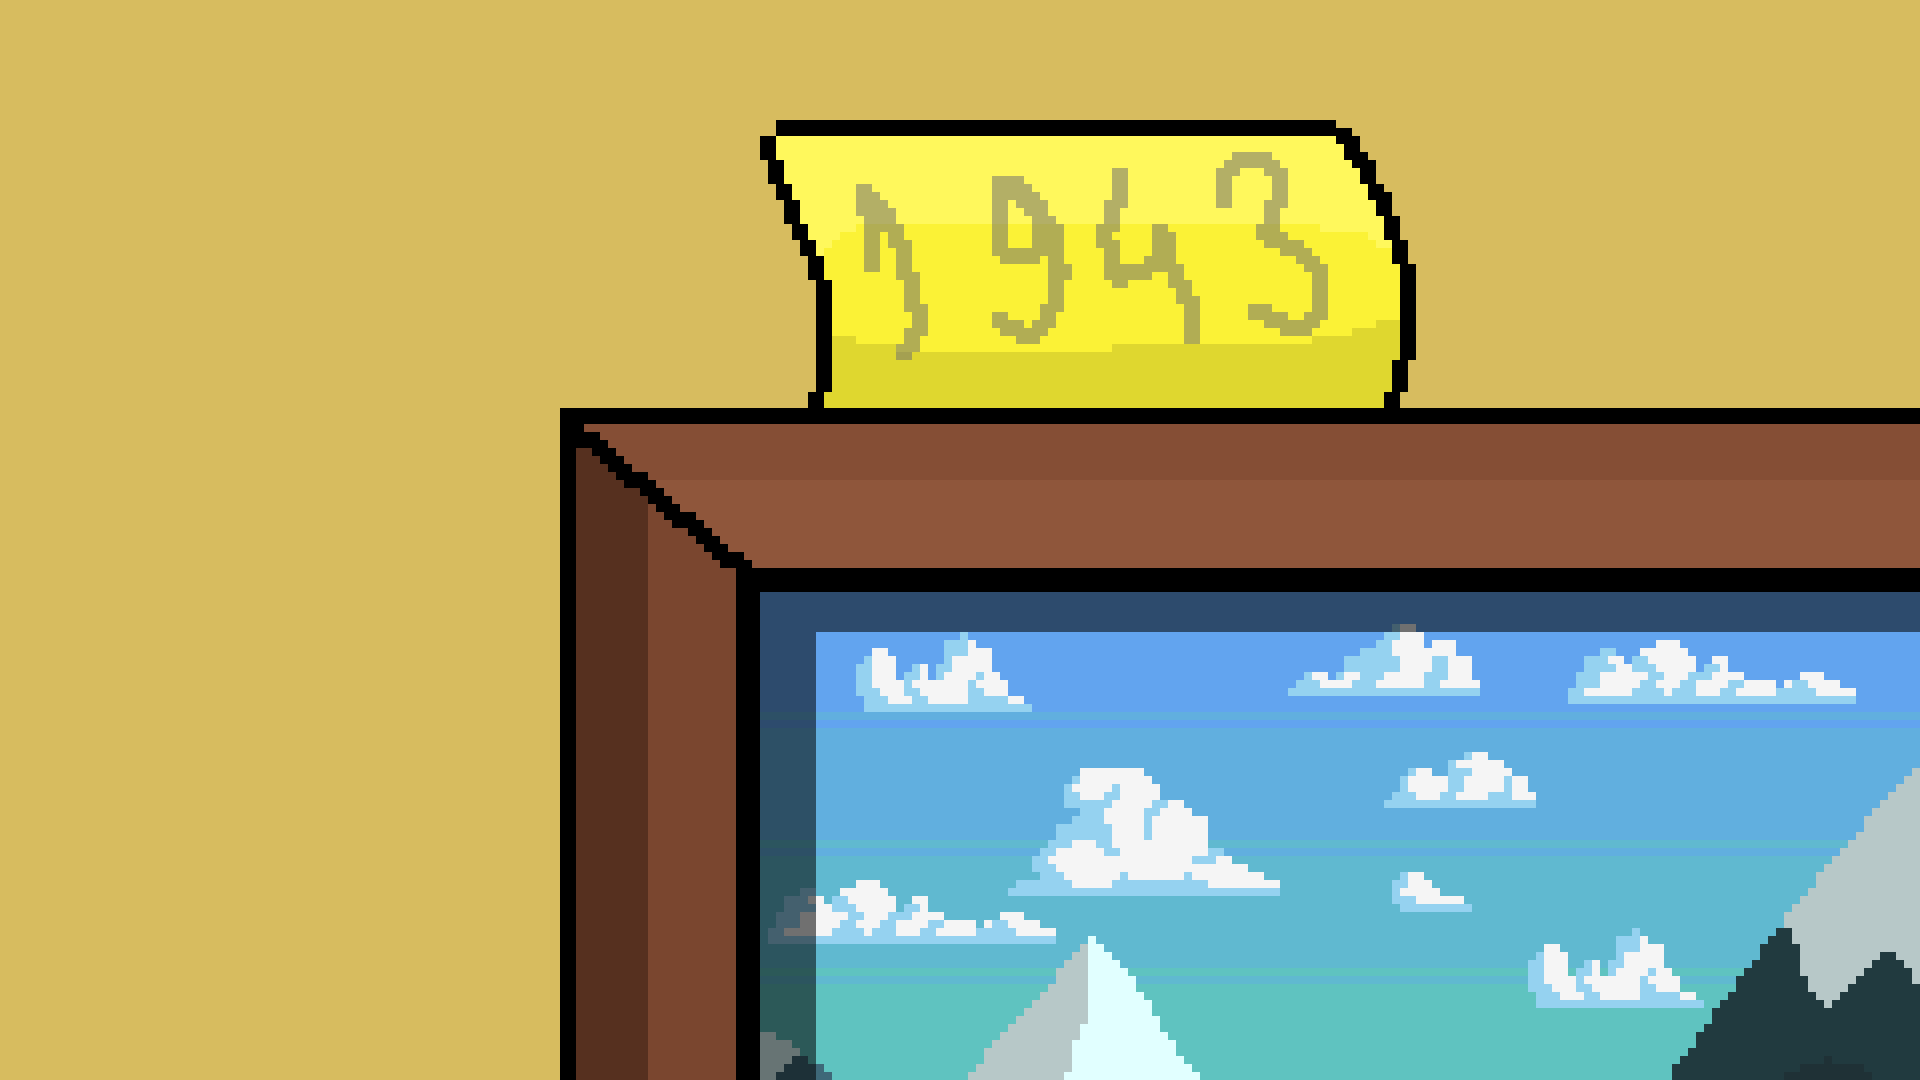
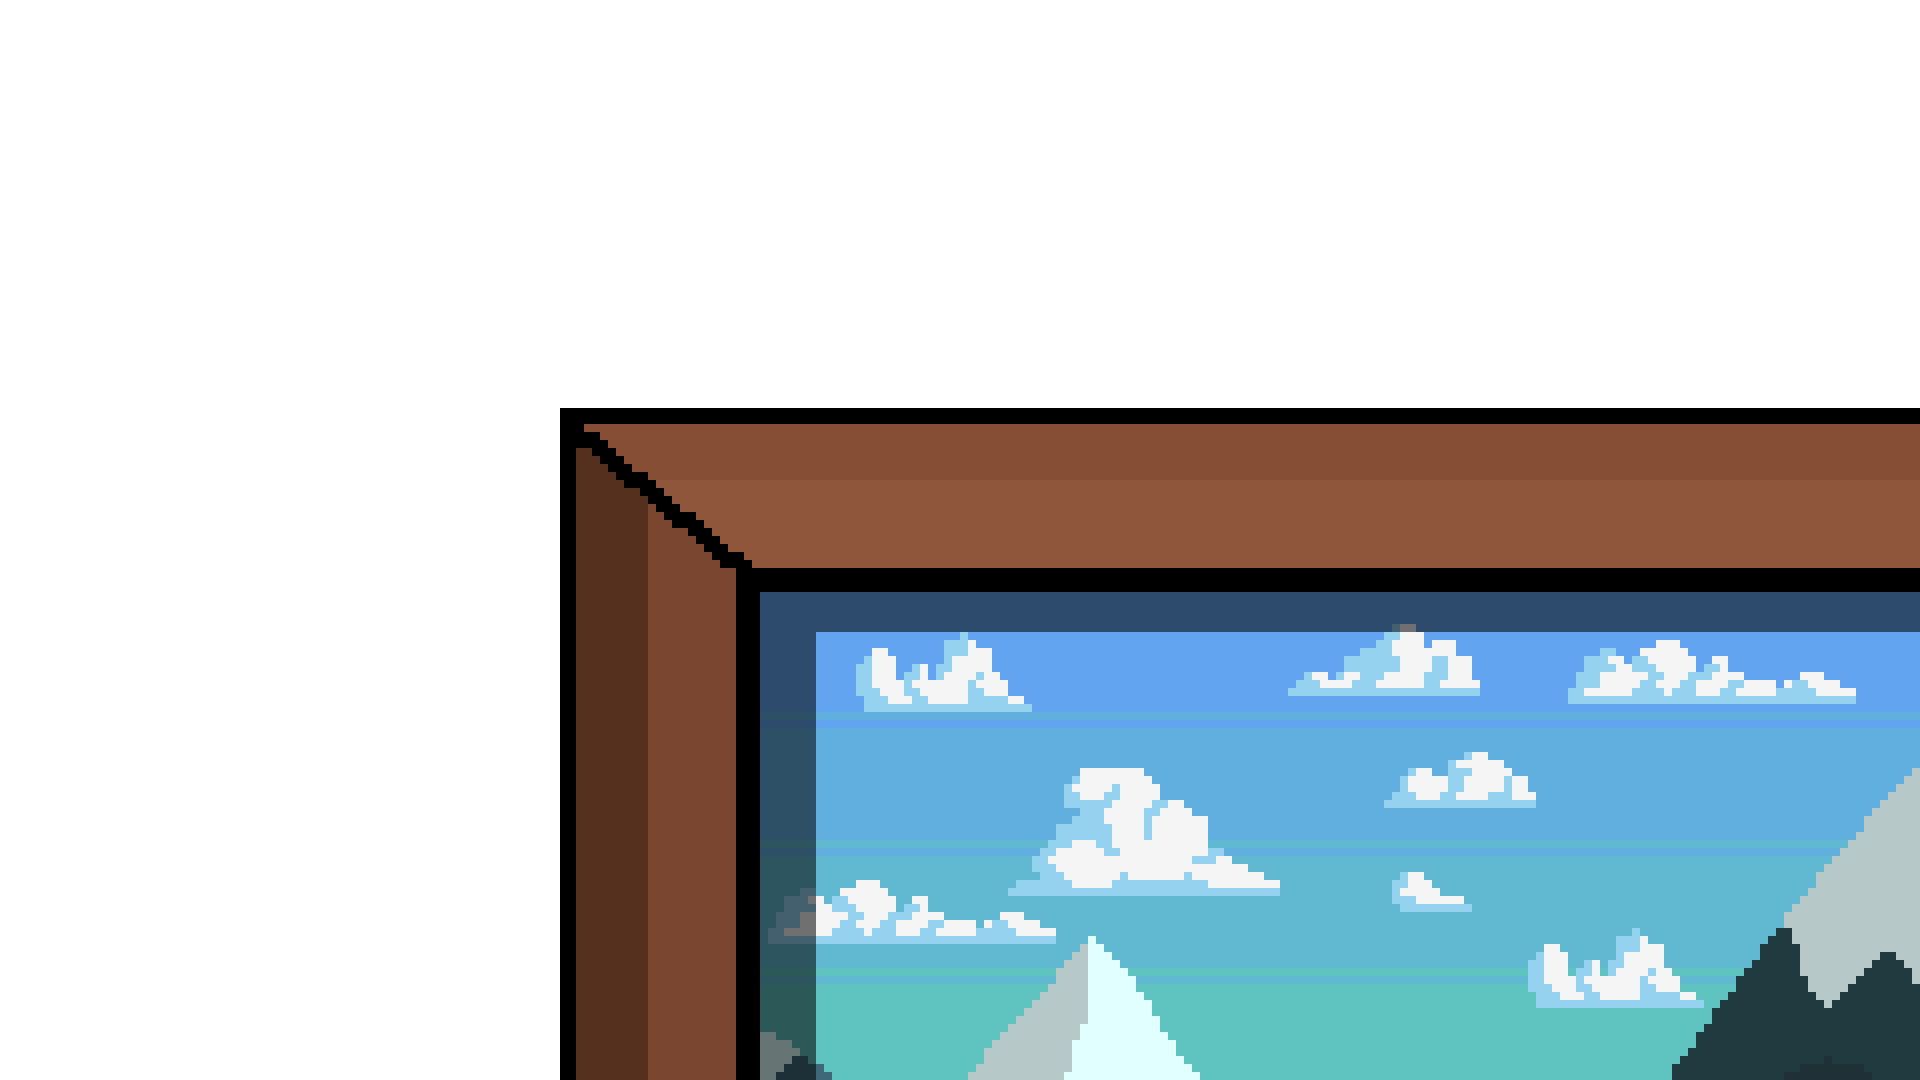
feat: added notes as two objects you can pick up and view from inventory

diff --git a/src/main/java/com/example/escapeyourbedroom/SpriteEvents.java b/src/main/java/com/example/escapeyourbedroom/SpriteEvents.java
@@ -14,6 +14,7 @@ import static com.example.escapeyourbedroom.EscapeRoomGame.*;
 public class SpriteEvents {
     // Background darken
     public static Rectangle darkenBackground = new Rectangle(WIDTH, HEIGHT, Color.rgb(0, 0, 0, 0.5));
+    public static Rectangle bg;
     // Safe things
     public static List<ClickableSprite> safeNumpadButtons = new ArrayList<>();
     public static ImageView keypad = new ImageView("file:assets/safe_numpad.png");
@@ -121,7 +122,22 @@ public class SpriteEvents {
         inventory.toFront();
         for (int i = 0; i < items.size(); i++) {
                 ClickableSprite item = items.get(i);
-                item.setOnlyLabelOnHoover();
+                if (item.name.startsWith("Key")) {
+                    item.setOnlyLabelOnHoover();
+                }
+                else {
+                    item.setHighlightOnHover();
+                    item.setOnMouseClicked(event -> {
+                        darkenBackground.toFront();
+                        exitButton.hide();
+                        String zoomized = item.getImage().getUrl().replace("_icon", "_zoom");
+                        ImageView zoomedNote = new ImageView(new Image(zoomized));
+                        root.getChildren().add(zoomedNote);
+                        zoomedNote.setVisible(true);
+                        zoomedNote.toFront();
+                        itemZoomExitButton();
+                    });
+                }
                 item.show();
         }
         exitButton();
@@ -191,6 +207,22 @@ public class SpriteEvents {
         });
     }
 
+    // Exit button with added inventory rendering
+    public static void itemZoomExitButton() {
+        exitButton = new ClickableSprite("file:assets/exit_button.png", "Go back", 796, -360);
+        exitButton.show();
+        exitButton.setHighlightOnHover();
+        exitButton.setOnMouseClicked(event -> {
+            // Hide keypad and render the background once again
+            nextBackground();
+            prevBackground();
+            updateSpritesVisibility(currentScene, true);
+            exitButton.hide();
+            root.getChildren().remove(darkenBackground);
+            renderInventory();
+        });
+    }
+
     // Hides all buttons and darkens the background
     public static void setDarkenBackground() {
         rightArrow.hide();
@@ -199,6 +231,14 @@ public class SpriteEvents {
         darkenBackground.setVisible(true);
         darkenBackground.toFront();
         root.getChildren().add(darkenBackground);
+    }
+
+    public static void renderBackground(String hex) {
+        bg = new Rectangle(WIDTH, HEIGHT, Color.web(hex));
+        root.getChildren().add(bg);
+        bg.setVisible(true);
+        bg.toFront();
+
     }
 
     //Get _icon version of a filename
@@ -211,6 +251,18 @@ public class SpriteEvents {
             else iconized.append(original.charAt(i));
         }
         return iconized.toString();
+    }
+
+    //Get _zoom version of a filename
+    public static String zoomizeName(String original) {
+        StringBuilder zoomized = new StringBuilder();
+        for (int i = 0; i < original.length(); i++) {
+            if (original.charAt(i) == '.') {
+                zoomized.append("_zoom.");
+            }
+            else zoomized.append(original.charAt(i));
+        }
+        return zoomized.toString();
     }
 
     // Used for inventory items' nameTags to avoid adding another column to the database

diff --git a/src/main/java/com/example/escapeyourbedroom/EscapeRoomGame.java b/src/main/java/com/example/escapeyourbedroom/EscapeRoomGame.java
@@ -82,12 +82,13 @@ public class EscapeRoomGame extends Application {
         drawer.setOnMouseClicked(event -> {
             if (!drawer.isZoomed) {
                 drawer.zoomInto();
+                renderChildSprite("note_1.png", -200, -70);
                 exitButton(drawer);
             }
         });
         drawer.setHighlightOnHover();
         drawer.setParentScene(2);
-        drawer.setZoomedImage("file:assets/drawer.png");
+        drawer.setZoomedImage("file:assets/drawer_zoom.png");
 
         ClickableSprite box = new ClickableSprite("file:assets/box.png", "Box", 600 , 250);
         box.setOnMouseClicked(event -> {
@@ -104,6 +105,8 @@ public class EscapeRoomGame extends Application {
         ClickableSprite painting = new ClickableSprite("file:assets/painting.png", "Painting", 400, -200);
         painting.setOnMouseClicked(event -> {
             if (!painting.isZoomed) {
+                SpriteEvents.renderBackground("d7bc5f");
+                renderChildSprite("note_2.png", 0, -276);
                 painting.zoomInto();
                 exitButton(painting);
             }
@@ -160,7 +163,12 @@ public class EscapeRoomGame extends Application {
         exitButton = new ClickableSprite("file:assets/exit_button.png", "Go back", 796, -360);
         exitButton.show();
         exitButton.setHighlightOnHover();
-        exitButton.setOnMouseClicked(event -> sprite.zoomOut());
+        exitButton.setOnMouseClicked(event -> {
+            sprite.zoomOut();
+            if (SpriteEvents.bg != null) {
+                root.getChildren().remove(SpriteEvents.bg);
+            }
+        });
     }
 
     public static void renderChildSprite(String filename, int X, int Y) {
